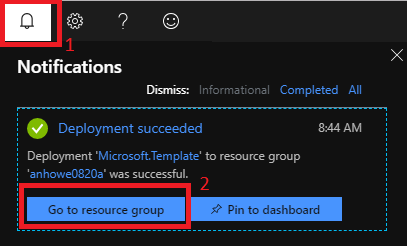
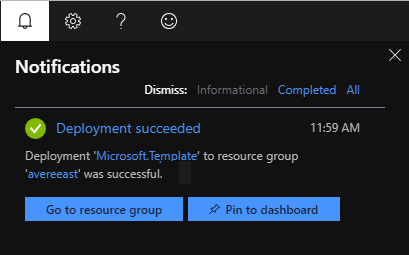
updated the documents based on a trial deployment

diff --git a/docs/configure_storage.md b/docs/configure_storage.md
@@ -1,42 +1,97 @@
 # Configure Storage
 
 There are two steps to set up a back-end storage system for your vFXT cluster. 
-1. [Create a core filer](#create-a-core-filer), which connects your vFXT cluster to an existing storage system.
+1. [Create a core filer](#create-a-core-filer), which connects your vFXT cluster to an existing storage system or an Azure Storage Account.
 1. [Create a namespace junction](#create-a-junction), which provides a path for clients to mount.
 
 ## Create a core filer
 "Core filer" is a vFXT term for a storage system. It is most often a NAS like NetApp or Isilon. More information about core filers can be found [here](http://library.averesystems.com/ops_guide/4_7/settings_overview.html#managing-core-filers).
 
-If you want to connect an existing hardware storage system or cloud container to your vFXT cluster, follow the instructions below. 
+To add a core filer, choose either of the the two main types of core filers:
+  1. [NAS core filer](#nas-core-filer) - describes how to add a NAS core filer 
+  2. [Azure Storage Account cloud core filer](#azure-storage-account-cloud-core-filer) - describes how to add an Azure Storage account as a cloud core filer
 
-If you need to create a new Azure storage container to serve as your back-end storage, follow the instructions in [Creating an Azure storage account](create_azure_storage.md) before using these instructions to add it to the cluster. 
+### NAS core filer
 
-- From the Avere Control Panel, click the Settings tab at the top.
-- Click “Manage Core Filers” on the left. 
-- Click “Create.”
+A NAS core filer, may be an on-prem NetApp or Isilon, or a NAS endpoint in the cloud.  The following steps add a NAS core filer:
 
-<img src="images/22addcorefiler1b.png">
+1. From the Avere Control Panel, click the Settings tab at the top.
 
-- For a NAS core filer: 
-  * Name your core filer.
-  * Provide a fully qualified domain name (FQDN) if available. Otherwise, provide an IP address or hostname that resolves to your core filer.
-  * Choose your filer class from the list. If unsure, choose “Other.”
-  * Click **Next** and choose a cache policy. 
-  * Click **Add Filer**.
-  * Refer to [Adding a new NAS core filer](http://library.averesystems.com/ops_guide/4_7/new_core_filer_nas.html) for more detailed information.
-  
-- For a cloud core filer: 
-  * Name your core filer and click **Next**.
-  * Accept the default cache policy and continue to the third page. 
-  * In **Service type**, choose **Azure storage**. 
-  * If you have already defined a storage credential for your Azure subsccription, choose it from the list. If not, choose **Add a credential set**, name the new credential, and paste a key from the storage container into the **Access key** field. Leave the  **Private key** field blank.    
-    Read [Copying an access key](#copying-an-azure-storage-access-key), below, to learn where to find the credential.
-  * On the fourth page, enter the name of the container in **Bucket name**. 
-  * Click **Add Filer**.
-  * Refer to [Adding a new cloud core filer](<http://library.averesystems.com/ops_guide/4_7/new_core_filer_cloud.html>) for more detailed information. 
-- Click Next.
+2. Click “Manage Core Filers” on the left. 
+
+3. Click “Create.”
+
+   <img src="images/22addcorefiler1b.png">
+
+   * Name your core filer.
+   * Provide a fully qualified domain name (FQDN) if available. Otherwise, provide an IP address or hostname that resolves to your core filer.
+   * Choose your filer class from the list. If unsure, choose “Other.”
+   * Click **Next** and choose a cache policy. 
+   * Click **Add Filer**.
+   * For more detailed information refer to [Adding a new NAS core filer](http://library.averesystems.com/ops_guide/4_7/new_core_filer_nas.html).
+
+Next proceed to [Create a Junction](#create-a-junction).  
+
+### Azure Storage Account cloud core filer
+
+To use Azure Blob storage as your vFXT cluster's back-end storage, you need an empty container to add as a cluster core filer.
+
+**TIP:** To avoid the following steps, use the ``create-cloudbacked-cluster`` sample script if you want to create a storage container at the same time as creating the vFXT cluster. The ``create-minimal-cluster`` sample script does not create an Azure storage container.
+
+The following steps create an Azure Storage Account with an empty container and add it as a cloud filer:
+
+1. Create a general-purpose V2 storage account by clicking on the "Deploy to Azure".  You can add it to the same resource group as the vFXT.
+
+   <a href="https://portal.azure.com/#create/Microsoft.Template/uri/https%3A%2F%2Favereimageswestus.blob.core.windows.net%2Fgithubcontent%2Fsrc%2Fstorageaccount%2Fazuredeploy.json" target="_blank">
+      <img src="https://raw.githubusercontent.com/Azure/azure-quickstart-templates/master/1-CONTRIBUTION-GUIDE/images/deploytoazure.png"/>
+   </a>
+
+2. Once created click on the Alert icon in the top right, and click **Go to resource group**.
+
+   <img src="images/browse_to_resource_group.png">
+
+3. Click on the Azure Storage Account from the resource list.
+
+   <img src="images/resource_list_storage_account.png">
+
+4. Create a blob container by clicking on **Blobs** on the overview page and then click **+Container**, and add a container using any name, ensuring "Private" access.
+
+   <img src="images/storage_account_blobs.png">
+
+5. Get the Azure Storage account key by, clicking **Access keys** under **Settings**:
+
+   <img src="images/copy_storage_key.png">
+
+6. Now browse to the Avere Management UI, and click **Settings**, followed by "**Cloud Credentials**, followed by **Add Credential**
+
+   <img src="images/avere_cloud_credentials.png">
+
+7. Fill in a description for the name, and then fill in the Storage Account Name, SubscriptionId, and Key into the fields "Tenant", "Subscription", and "Storage Access Key" respectively, and click "submit":
+
+   <img src="images/avere_cloud_credentials_submit.png">
+
+8. To create the core filer, click “Manage Core Filers” on the left. 
+
+9. Click “Create.”
+
+10. Fill out the Wizard:
+   * Choose "Cloud" filer type
+   * Name your core filer and click **Next**.
+   * Accept the default cache policy and continue to the third page. 
+   * In **Service type**, choose **Azure storage**. 
+   * Choose the credential created earlier from the list.
+   * Set Bucket contents to **empty**
+   * Change Certificate verification to **Disabled**
+   * Change Compression mode to **None**    
+   * On the fourth page, enter the name of the container as **storage-account/container** in **Bucket name**.
+   * Set Encryption Type to **None**.  An Azure Storage Account has encryption on by default.
+   * Click **Add Filer**.
+   * Refer to [Adding a new cloud core filer](<http://library.averesystems.com/ops_guide/4_7/new_core_filer_cloud.html>) for more detailed information. 
+   * Click Next.
 
 The page will refresh, or you can refresh the page to display your new core filer.
+
+Next proceed to [Create a Junction](#create-a-junction).
 
 ## Create a junction
 A junction is a path that you create for clients. Clients mount the path in order to arrive at the destination you choose. For example, you could create `/avere/files` to map to your NetApp core filer, `/vol0/data` export, and the `/project/resources` subdirectory.
@@ -47,18 +102,9 @@ More information about junctions can be found [here](http://library.averesystems
 - Choose the export.
 - Click “Next.”
 
-<img src="images/24addjunction.png">
+   <img src="images/24addjunction.png">
 
 The junction will appear after a few seconds. Create additional junctions as needed.
 
-
-
-### Copying an Azure storage access key
-
-Follow these instructions to find a key to paste into your cloud core filer definition. (This task is needed if adding an Azure container as a core filer, which is described above in [Create a core filer](#create-a-core-filer)
-
-1. In the Azure portal, browse to the storage account resource that holds the core filer container. 
-2. Under **Settings**, click **Access keys**. 
-3. Copy one of the keys. 
-
-<img src="images/copy_storage_key.png">
+## Proceed to Parallel Data Ingest
+Now that a junction is exported, proceed to [Parallel Data Ingest](getting_data_onto_vfxt.md).

diff --git a/docs/jumpstart_deploy.md b/docs/jumpstart_deploy.md
@@ -42,9 +42,9 @@ Now that your controller node is running, you need to access the controller node
 
 ### Access the cluster
 
-1. SSH to the controller using the `SSHSTRING` you captured in the [outputs above](browse-to-outputs).
+1. SSH to the controller using the `SSHSTRING` you captured in the [outputs above](#browse-to-outputs).
 
-2. Authenticate by running `az login`.  In this step, browse to https://microsoft.com/devicelogin in any web browser, put in the unique code, authenticate to Microsoft, and then return to the shell.
+2. Authenticate by running `az login`.  In this step, browse to <a href="https://microsoft.com/devicelogin" target="_blank">https://microsoft.com/devicelogin</a> in any web browser, put in the unique code, authenticate to Microsoft, and then return to the shell.
 
    <img src="images/9azlogin.png">
 
@@ -67,7 +67,7 @@ NETWORK=<from the Outputs>
 SUBNET=<from the Outputs>
 ```
 
-Additionally add name of the cluster role name you just created, and add an admin password:
+Additionally add name of the cluster role name you just created in the [prerequisites](prereqs.md#create-an-azure-rbac-role), and add an admin password:
 
 ```bash
 AVERE_CLUSTER_ROLE=<name of role created above (avere-cluster)>
@@ -84,4 +84,4 @@ When the script completes, copy the management IP address.
 <img src="images/14mgmtip.png">
 
 ### Proceed to Accessing the Cluster
-Now that the cluster is running, and you have the management IP address, you can now [click here to access the cluster](https://github.com/Azure/Avere/blob/master/docs/access_cluster.md).
+Now that the cluster is running, and you have the management IP address, you can now [click here to access the cluster](access_cluster.md).

diff --git a/README.md b/README.md
@@ -9,7 +9,7 @@ The Avere vFXT is an enterprise-scale clustered file system built for the cloud.
   2. [Deploy](docs/jumpstart_deploy.md) - The fastest way to create a vFXT cluster.
   3. [Access the cluster](docs/access_cluster.md) - Access the Avere Control Panel from an SSH tunnel
   4. [Configure storage](docs/configure_storage.md) - Add a core filer, vserver, and junction
-  5. [Parallel Data Ingest - Moving data to the vFXT cluster](docs/getting_data_onto_vfxt.md) - Explains how to efficiently load data onto cluster storage by using parallel copy strategies]
+  5. [Parallel Data Ingest - Moving data to the vFXT cluster](docs/getting_data_onto_vfxt.md) - Explains how to efficiently load data onto cluster storage by using parallel copy strategies.
   
 # How-to Guides
   * (Erin/Ron) Connecting clients - RRDNS and `mount`

diff --git a/docs/access_cluster.md b/docs/access_cluster.md
@@ -32,3 +32,6 @@ Enter the username `admin` and the vFXT password you provided when installing th
 <img src="images/21b-login.png">
 
 Click “Login” or press Enter.
+
+## Proceed to configure storage
+Now that you can access the cluster, proceed to [configure storage](configure_storage.md).

diff --git a/src/storageaccount/README.md b/src/storageaccount/README.md
@@ -1,0 +1,3 @@
+# Storage Account
+
+This template deploys the recommended storage account type to be used as a cloud filer account on the Avere vFXT.
